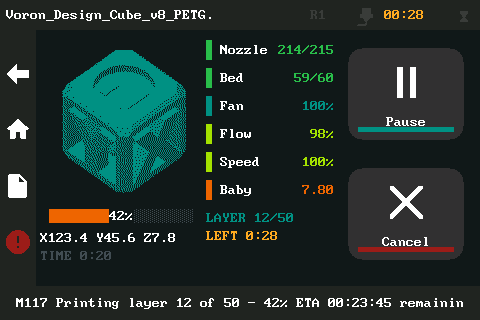
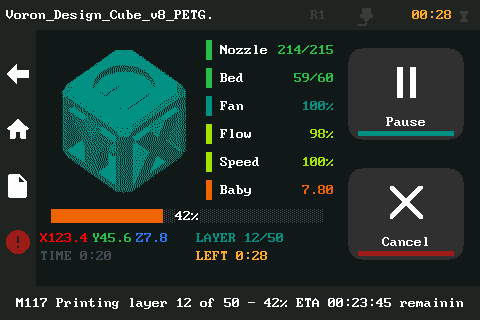
print: progress bar spans both columns, X/Y/Z in axis colours
- the bar now runs under the preview and the info list; LAYER and LEFT
  move to the right of the position, TIME/LEFT stay on the second line
- position is drawn as X3.2 Y3.2 Z3.2 with the usual 3D axis colours
  (red / green / blue) and one decimal

diff --git a/mcu/st7796.py b/mcu/st7796.py
@@ -35,6 +35,10 @@ COL_OK     = 0x2DE9   # #2DBF4A  green   -> at/over the target (-3C)
 COL_COOL   = 0x061A   # #26C6DA  cyan    -> cooling (target 0)
 COL_DIM    = 0x39E7   # #3A3A3A  grey    -> disabled rail icons
 COL_PREVIEW = COL_C3  # #009384  teal (theme accent) -> object preview
+# Usual 3D axis colours for the position readout.
+COL_AXIS_X = 0xF800   # red
+COL_AXIS_Y = 0x2DE9   # green
+COL_AXIS_Z = 0x2BDF   # #2979FF blue
 
 # Accent colours for the button underlines: the 4 theme accents plus 4 more, so
 # each of the 8 grid buttons gets its own colour.
@@ -2273,10 +2277,12 @@ class ST7796:
         try:
             gp = self.printer.lookup_object(
                 'gcode_move').get_status(eventtime)['gcode_position']
-            xyz = "X%.1f Y%.1f Z%.1f" % (float(gp[0]), float(gp[1]),
-                                         float(gp[2]))
+            parts = (("X%.1f" % float(gp[0]), COL_AXIS_X),
+                     ("Y%.1f" % float(gp[1]), COL_AXIS_Y),
+                     ("Z%.1f" % float(gp[2]), COL_AXIS_Z))
         except Exception:
-            xyz = "X- Y- Z-"
+            parts = (("X-", COL_AXIS_X), ("Y-", COL_AXIS_Y),
+                     ("Z-", COL_AXIS_Z))
         ps = self._print_status(eventtime) or {}
         info = ps.get('info') or {}
         lay, tot = info.get('current_layer'), info.get('total_layer')
@@ -2284,13 +2290,16 @@ class ST7796:
         dur = ps.get('print_duration') or 0
         ttxt = "TIME %d:%02d" % (dur // 3600, (dur // 60) % 60)
         ly = py + 22
-        ops.append(lambda px=px, ly=ly, xyz=xyz: self._gui_text(
-            px, ly, xyz, COL_WHITE, COL_BG, 1))
+        tx = px
+        for txt, col in parts:
+            ops.append(lambda tx=tx, ly=ly, txt=txt, col=col:
+                       self._gui_text(tx, ly, txt, col, COL_BG, 1))
+            tx += len(txt) * 8 + 4
         ops.append(lambda px=px, ly=ly, ttxt=ttxt: self._gui_text(
             px, ly + 18, ttxt, COL_ACTIVE, COL_BG, 1))
-        # layer / time-to-finish in the middle column, under the list
-        mx = self.RAIL_W + 170
-        my = self.TOP_H + 6 + 6 * 28 + 6
+        # layer / time-to-finish to the right of the position
+        mx = px + 156
+        my = ly
         if ltxt:
             ops.append(lambda mx=mx, my=my, ltxt=ltxt: self._gui_text(
                 mx, my, ltxt, COL_C3, COL_BG, 1))
@@ -3014,9 +3023,10 @@ class ST7796:
                 for i, k in enumerate(self._PRINT_KEYS)]
 
     def _print_bar_rect(self):
-        # Progress bar, under the image.
+        # Progress bar, under the image AND the info list.
         x, y, w, h = self._print_img_rect()
-        return (x, y + h + 10, w, 16)
+        lx, ly, lw, lh, _key = self._print_list_rows()[0]
+        return (x, y + h + 10, (lx + lw) - x, 16)
     _PRINT_KEYS = ('etemp', 'btemp', 'fan', 'flow', 'speed', 'baby')
     def _print_panel(self):
         # (x, y, w, h, index, popup key) for the 3x2 tappable info tiles.
@@ -3121,14 +3131,6 @@ class ST7796:
             self._popup_view_ops(ops, eventtime)
         else:
             self._print_3col_ops(ops, eventtime, values_only)
-        # X / Y / Z line
-        try:
-            gp = self.printer.lookup_object(
-                'gcode_move').get_status(eventtime)['gcode_position']
-            xyz = "X%.1f Y%.1f Z%.1f" % (float(gp[0]), float(gp[1]),
-                                         float(gp[2]))
-        except Exception:
-            xyz = "X- Y- Z-"
         self._print_btns_ops(ops, ps)
 
     def _print_btns_ops(self, ops, ps):
